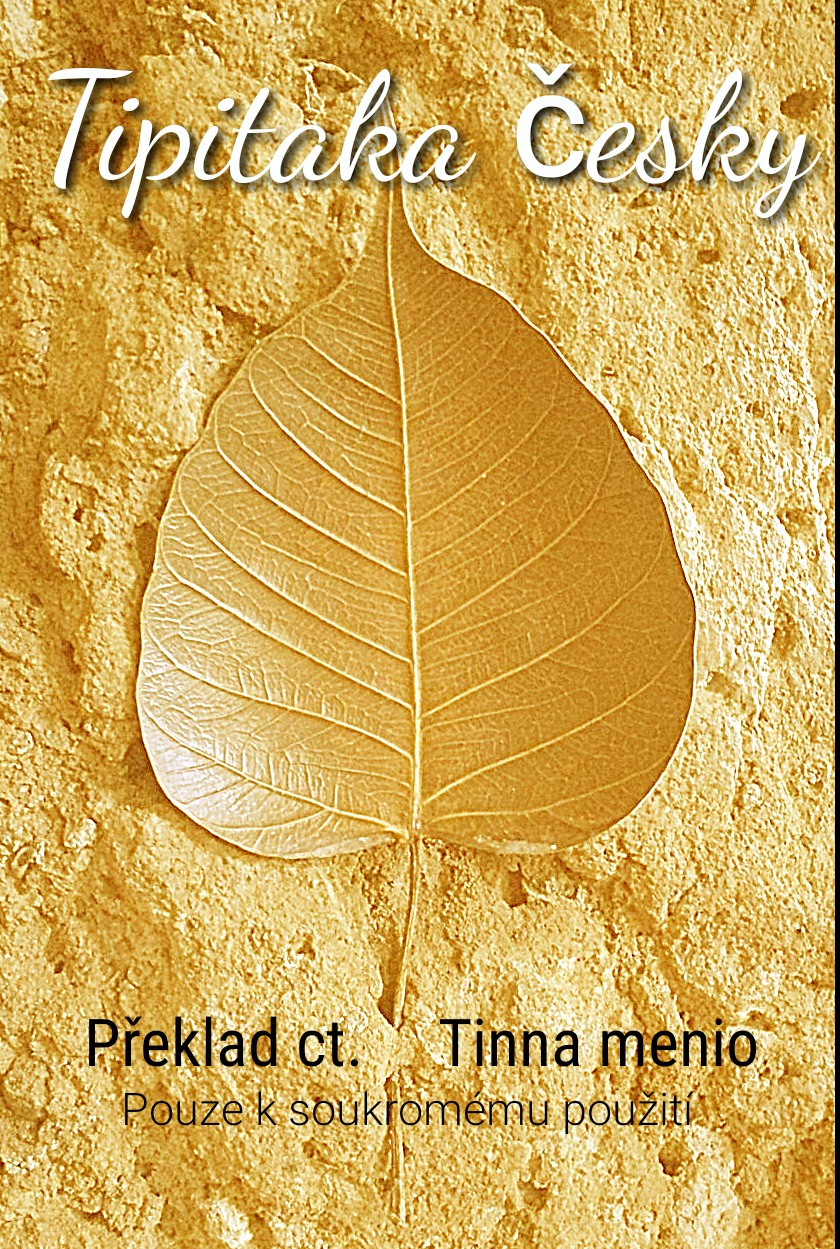
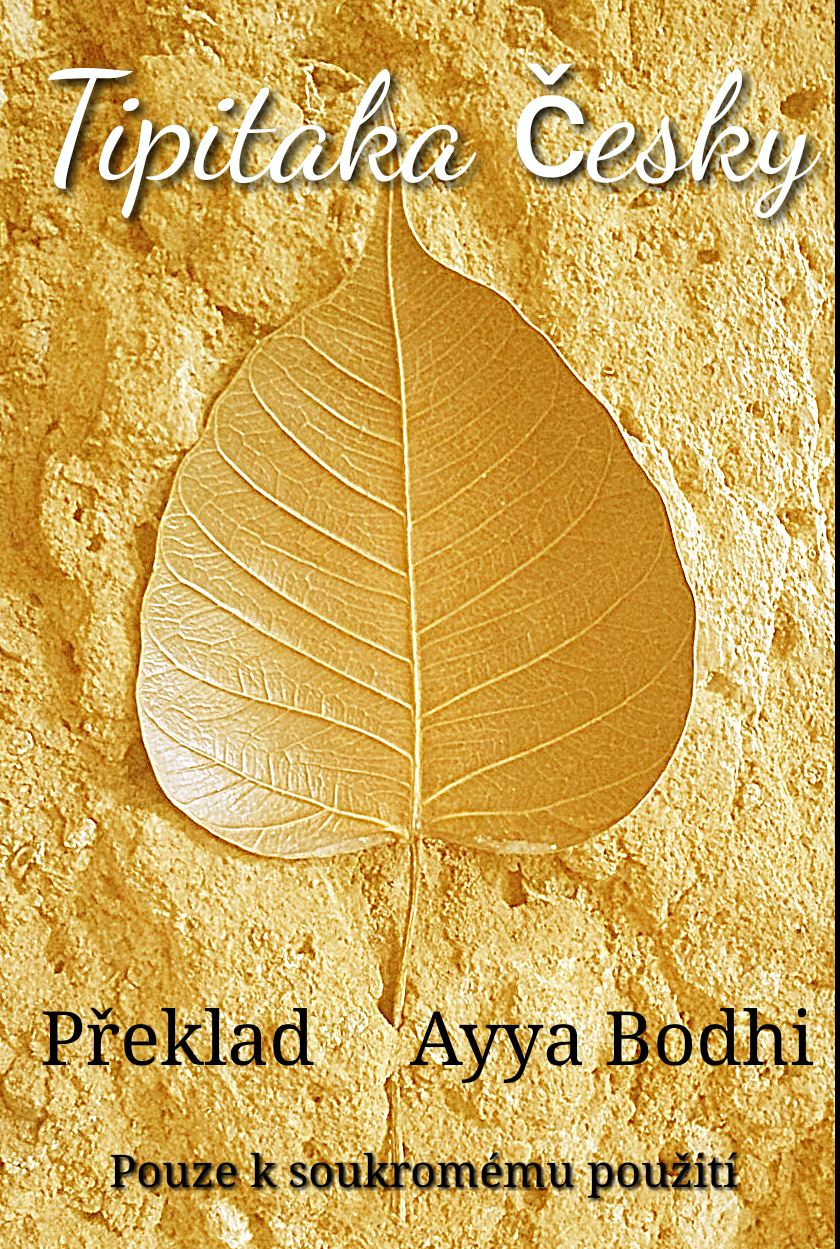
Ct.Tinna -> Ayya Bodhi

Changed region(s): [[0.031, 0.7806, 0.9905, 0.968], [0.9286, 0.281, 0.9595, 0.3122]]

diff --git a/suttamerge/res/book.css b/suttamerge/res/book.css
@@ -8,11 +8,11 @@ body {
 
 }
 /* Title page */
- #cover-image {width: 100%; }
+ cover-image cover.jpg {width: 100%; }
 
 /* Use the media query because Kindles don't support max-width */
 @media not amzn-mobi, not amzn-kf8 {
-  #cover-image img { max-width: 100%; }
+  cover-image cover.jpg { max-width: 100%; }
 }
 
 
